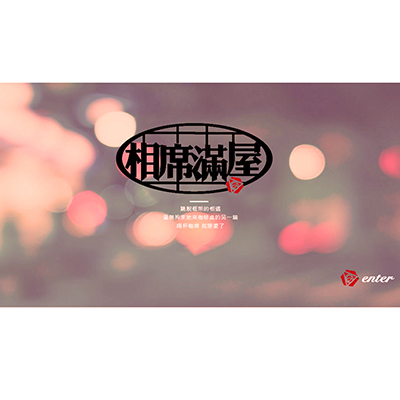
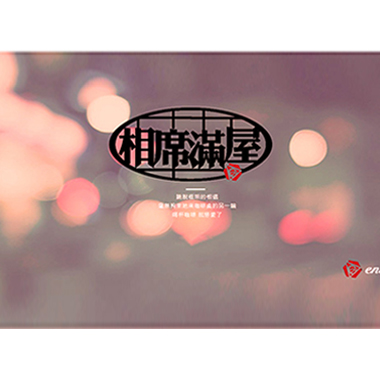
update website section

diff --git a/resources/css/index.css b/resources/css/index.css
@@ -390,11 +390,11 @@ li{
     display: block;
 }
 #container-website, #container-website2, #container-website3{
-    border-radius: 10px;
+    border-radius: 20px;
     position: relative;
     margin: 3% auto;
     width: 370px;
-    height: 370px;
+    height: 340px;
     background: #00AAAA;
     overflow: hidden;
     cursor: pointer;
@@ -526,15 +526,15 @@ li{
     
 }
 #container-website:hover #websiteContent{
-    transform: translateY(130%);
+    transform: translateY(100%);
     transition: 1s;
 }
 #container-website2:hover #websiteContent{
-    transform: translateY(130%);
+    transform: translateY(100%);
     transition: 1s;
 }
 #container-website3:hover #websiteContent{
-    transform: translateY(20%);
+    transform: translateY(10%);
     transition: 1s;
 }
 
